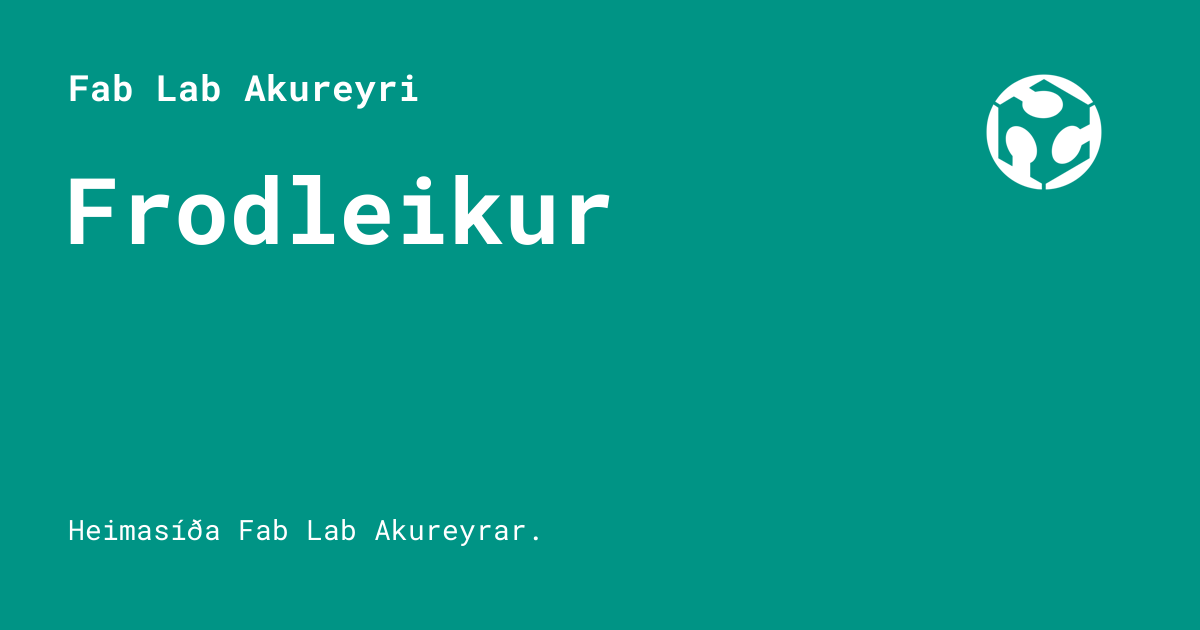
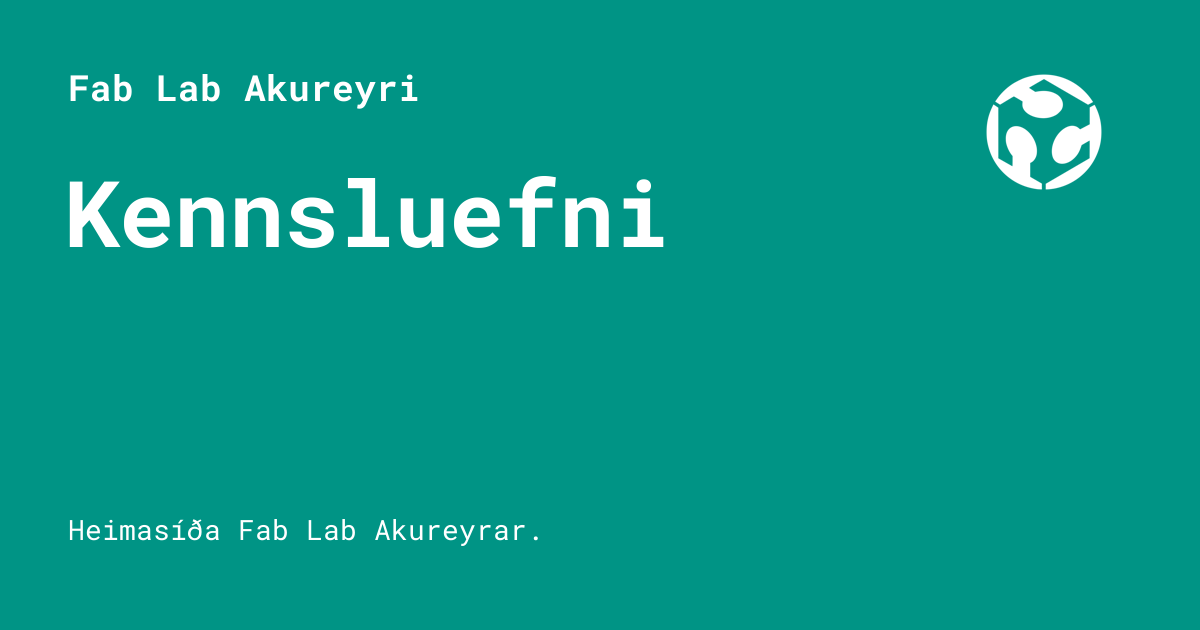
Deployed 2228c63 with MkDocs version: 1.6.1

Changed region(s): [[0.0617, 0.2714, 0.555, 0.3921]]

diff --git a/kennsluefni/index.html b/kennsluefni/index.html
@@ -26,7 +26,7 @@
     
     
       
-        <title>Frodleikur - Fab Lab Akureyri</title>
+        <title>Kennsluefni - Fab Lab Akureyri</title>
       
     
     
@@ -63,7 +63,7 @@
       
         <meta  property="og:type"  content="website" >
       
-        <meta  property="og:title"  content="Frodleikur - Fab Lab Akureyri" >
+        <meta  property="og:title"  content="Kennsluefni - Fab Lab Akureyri" >
       
         <meta  property="og:description"  content="Heimasíða Fab Lab Akureyrar." >
       
@@ -79,7 +79,7 @@
       
         <meta  name="twitter:card"  content="summary_large_image" >
       
-        <meta  name="twitter:title"  content="Frodleikur - Fab Lab Akureyri" >
+        <meta  name="twitter:title"  content="Kennsluefni - Fab Lab Akureyri" >
       
         <meta  name="twitter:description"  content="Heimasíða Fab Lab Akureyrar." >
       
@@ -137,7 +137,7 @@
         <div class="md-header__topic" data-md-component="header-topic">
           <span class="md-ellipsis">
             
-              Frodleikur
+              Kennsluefni
             
           </span>
         </div>
@@ -608,7 +608,7 @@
         
   
   <span class="md-ellipsis">
-    Frodleikur
+    Kennsluefni
   </span>
   
 

diff --git a/frettir/index.html b/frettir/index.html
@@ -1387,7 +1387,7 @@
         
   
   <span class="md-ellipsis">
-    Frodleikur
+    Kennsluefni
   </span>
   
 

diff --git a/404.html b/404.html
@@ -555,7 +555,7 @@
         
   
   <span class="md-ellipsis">
-    Frodleikur
+    Kennsluefni
   </span>
   
 

diff --git a/arsskyrslur/index.html b/arsskyrslur/index.html
@@ -594,7 +594,7 @@
         
   
   <span class="md-ellipsis">
-    Frodleikur
+    Kennsluefni
   </span>
   
 

diff --git a/bunadur/index.html b/bunadur/index.html
@@ -867,7 +867,7 @@
         
   
   <span class="md-ellipsis">
-    Frodleikur
+    Kennsluefni
   </span>
   
 

diff --git a/gestir/index.html b/gestir/index.html
@@ -604,7 +604,7 @@
         
   
   <span class="md-ellipsis">
-    Frodleikur
+    Kennsluefni
   </span>
   
 

diff --git a/hugbunadur/index.html b/hugbunadur/index.html
@@ -690,7 +690,7 @@
         
   
   <span class="md-ellipsis">
-    Frodleikur
+    Kennsluefni
   </span>
   
 

diff --git a/index.html b/index.html
@@ -665,7 +665,7 @@
         
   
   <span class="md-ellipsis">
-    Frodleikur
+    Kennsluefni
   </span>
   
 

diff --git a/kennsluefni/husavik2025/index.html b/kennsluefni/husavik2025/index.html
@@ -588,7 +588,7 @@
         
   
   <span class="md-ellipsis">
-    Frodleikur
+    Kennsluefni
   </span>
   
 

diff --git a/kennsluefni/rafmagn/index.html b/kennsluefni/rafmagn/index.html
@@ -588,7 +588,7 @@
         
   
   <span class="md-ellipsis">
-    Frodleikur
+    Kennsluefni
   </span>
   
 

diff --git a/kennsluefni/smidja2026/index.html b/kennsluefni/smidja2026/index.html
@@ -599,7 +599,7 @@
         
   
   <span class="md-ellipsis">
-    Frodleikur
+    Kennsluefni
   </span>
   
 

diff --git a/sattmalinn/index.html b/sattmalinn/index.html
@@ -697,7 +697,7 @@
         
   
   <span class="md-ellipsis">
-    Frodleikur
+    Kennsluefni
   </span>
   
 
